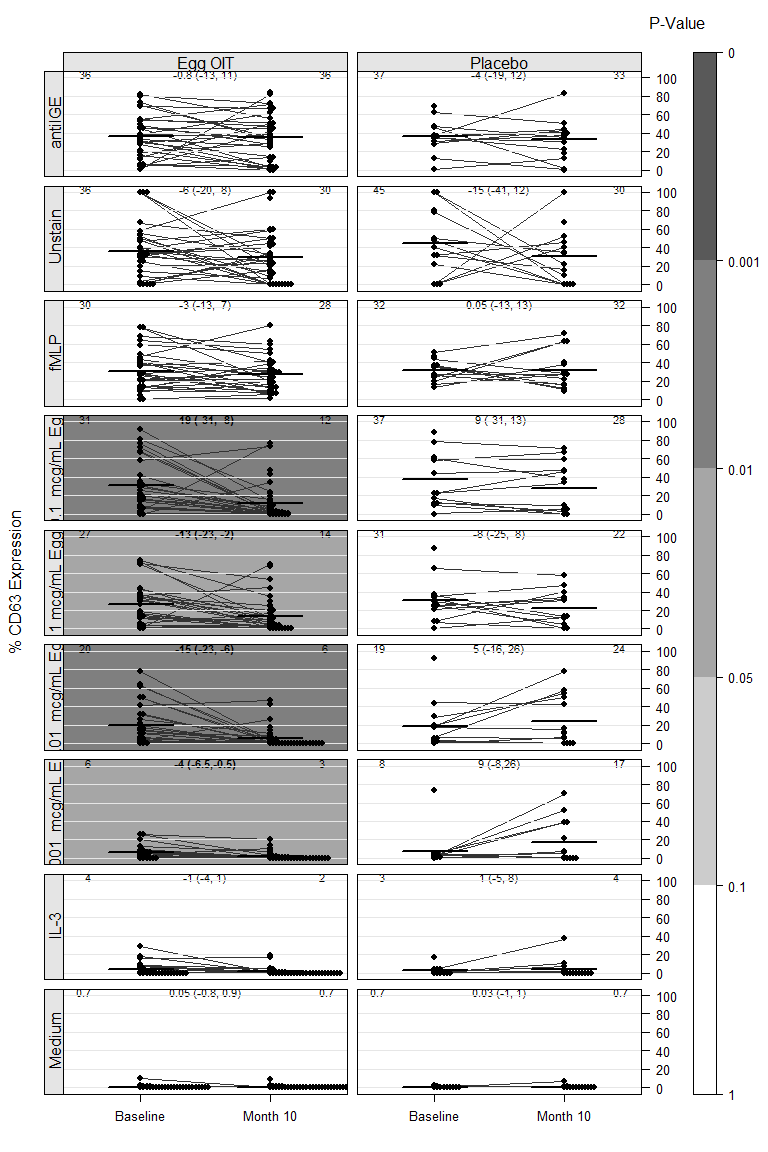
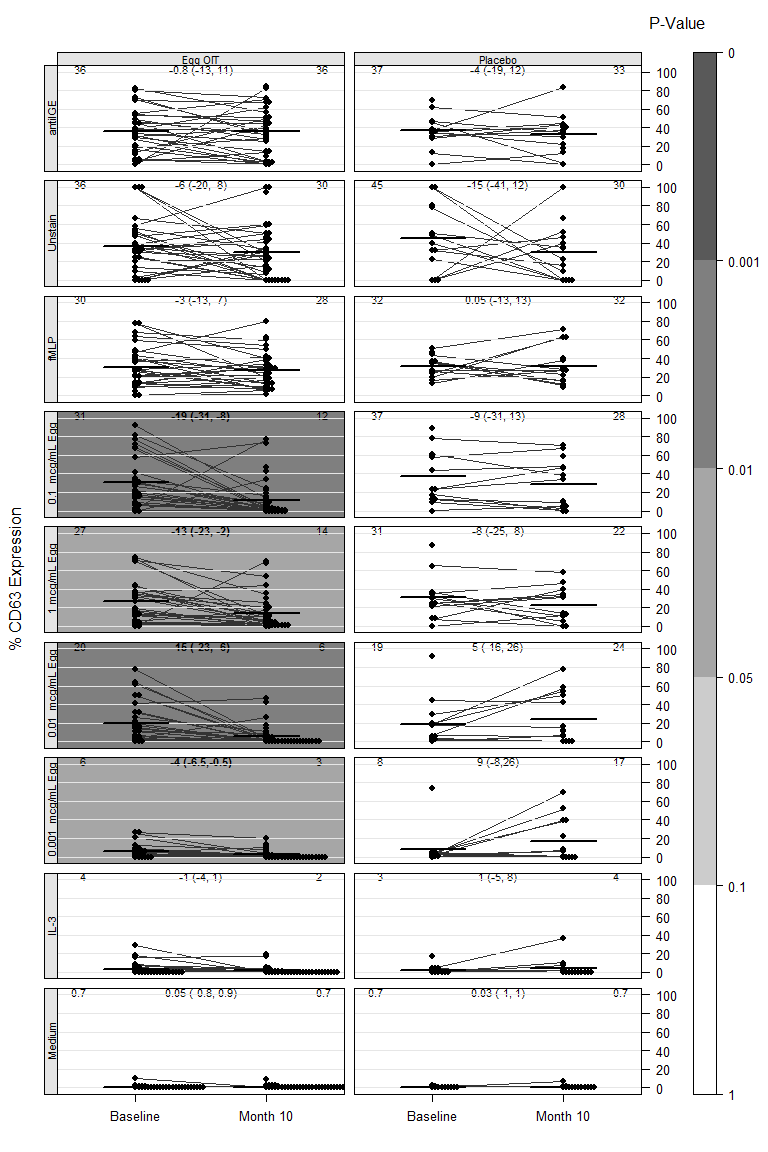
Update label sizes to fit panel

diff --git a/figures/SupplementalFigure06_ClinicalCaseStudy/clinical.md b/figures/SupplementalFigure06_ClinicalCaseStudy/clinical.md
@@ -177,6 +177,7 @@ xyplot(value ~ factor(visno) | trttrue * reorder(label,value), data=dd,
        group = subject_accession,
        type = c('a'), cex=1, col = 'black', col.line = 'gray20',
        par.settings=list(strip.background=list(col="gray90")),
+       par.strip.text = list(cex = 0.7, lines = 2),
        scale = list(x = list(alternating = 1, tck=c(1,0)),
                     y = list(alternating = 2, tck=c(0,1))),
        between = list(x=0.5, y=0.5),
